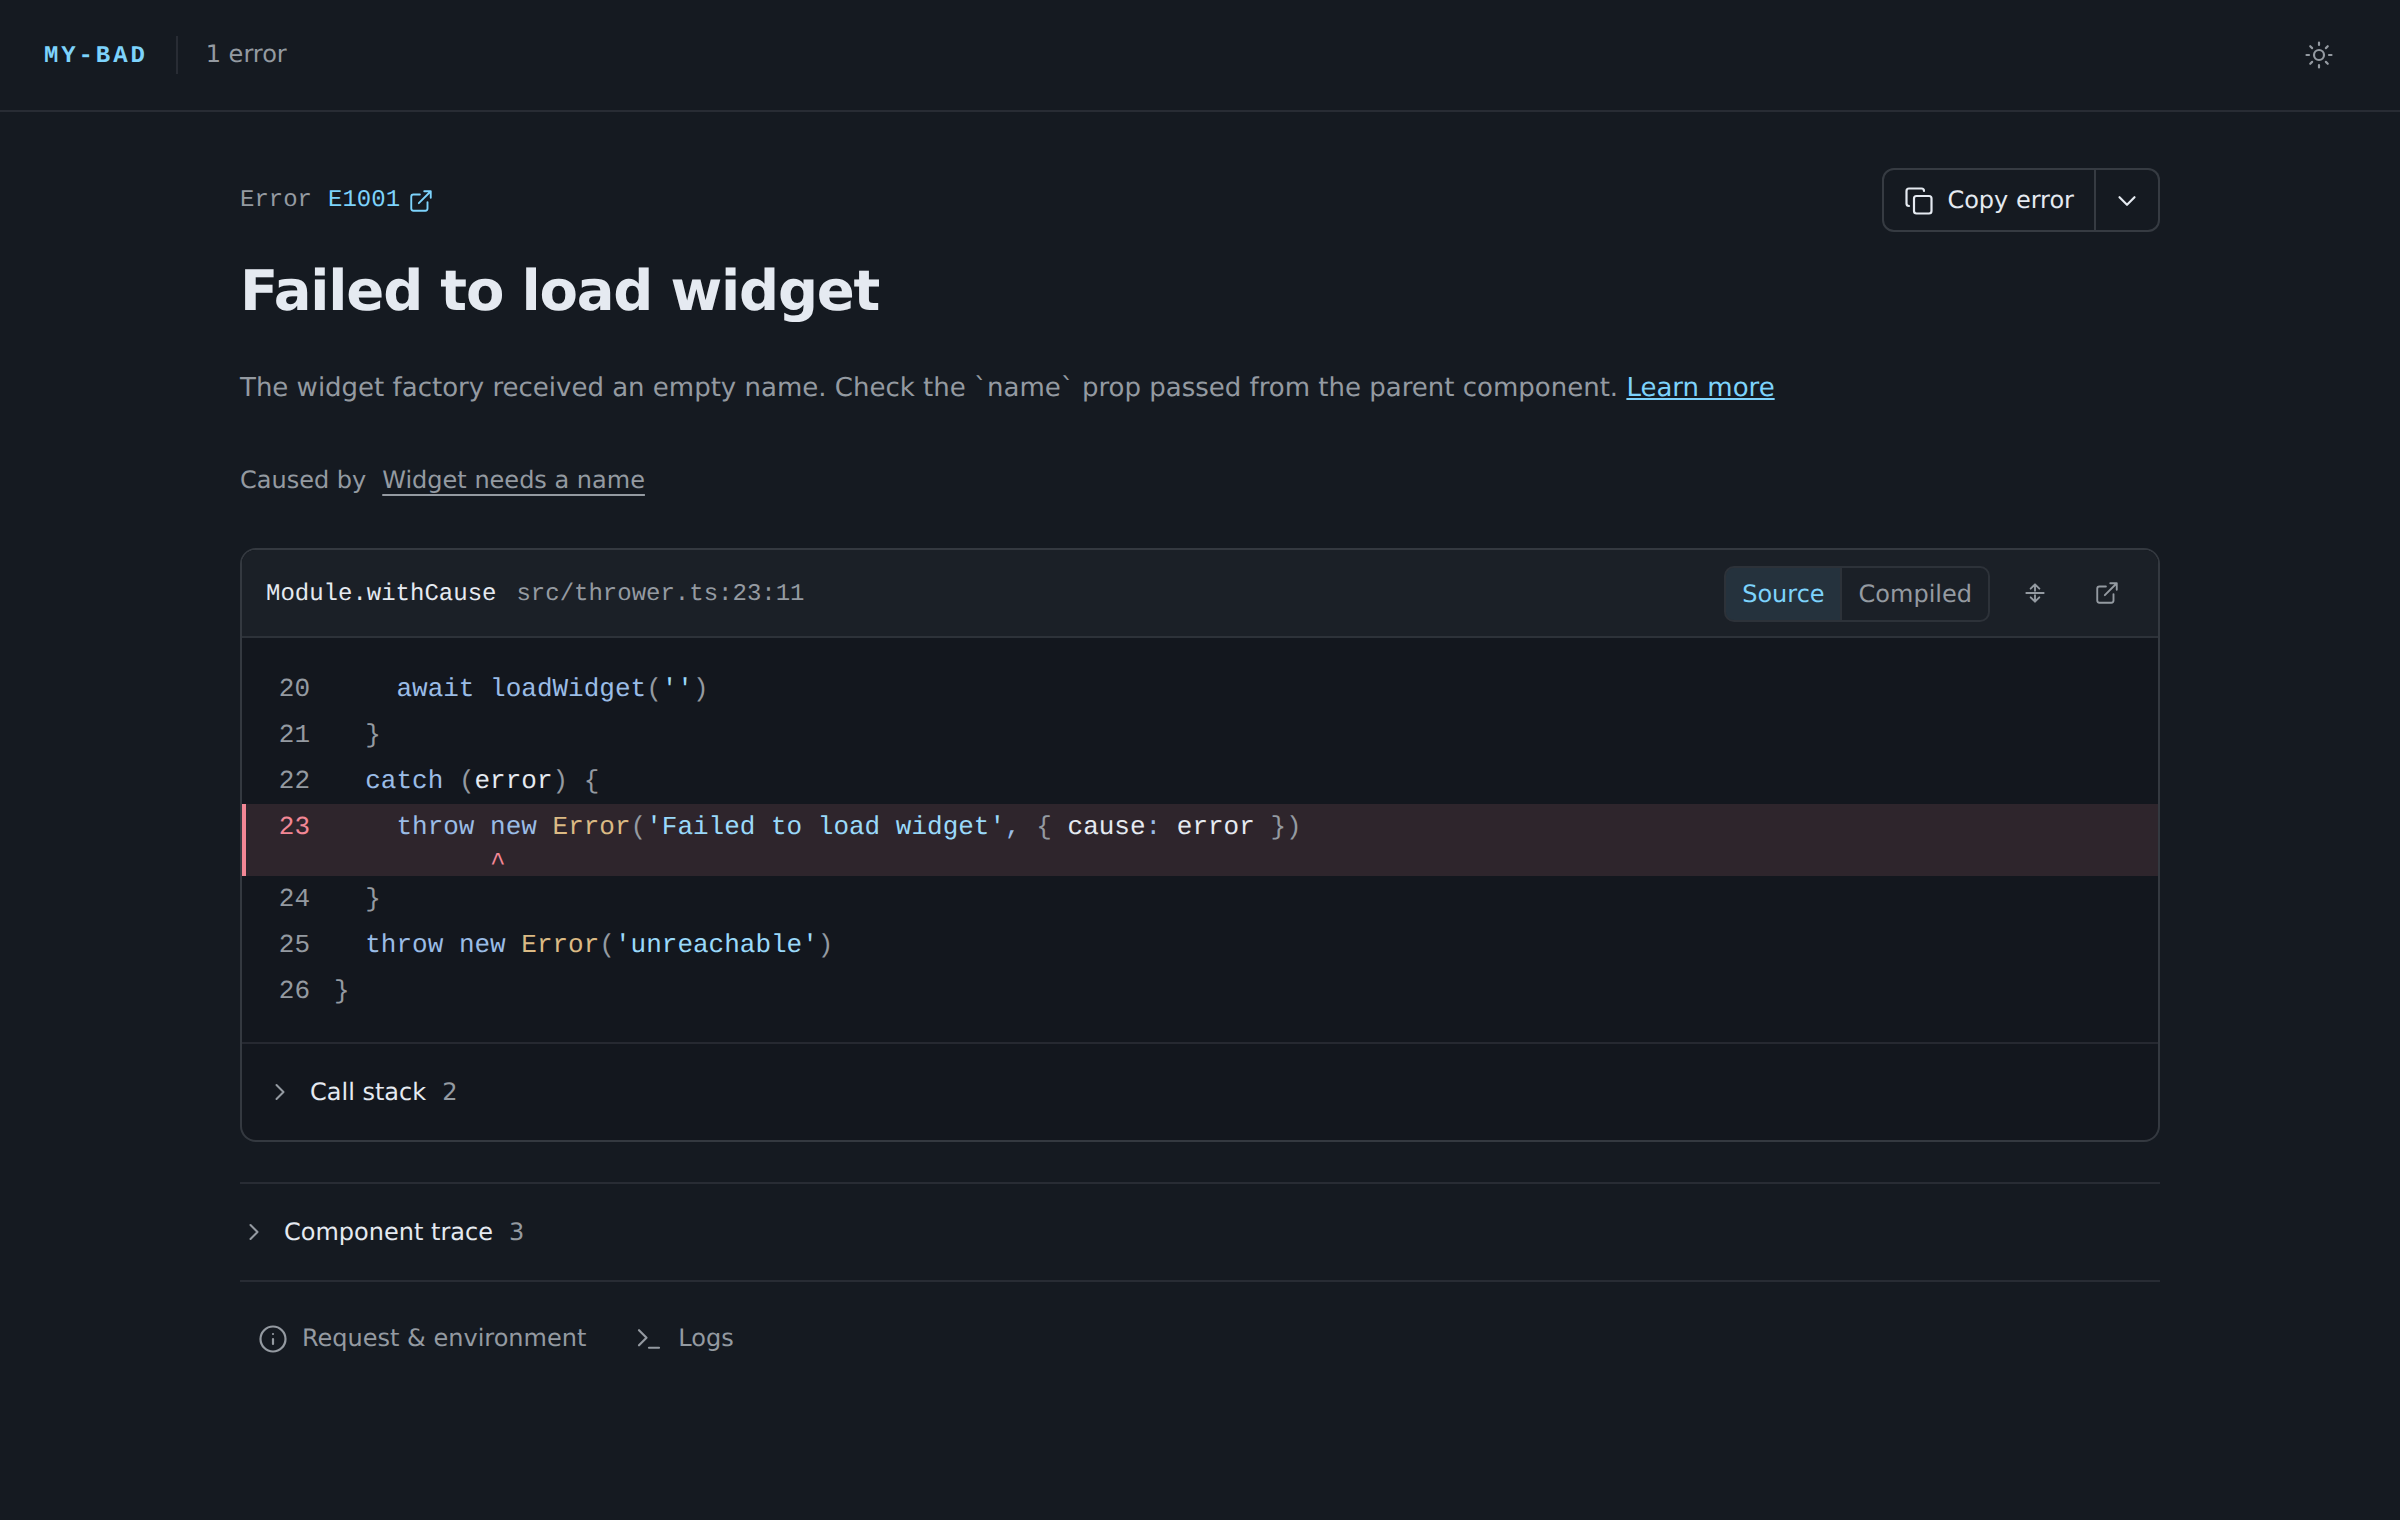
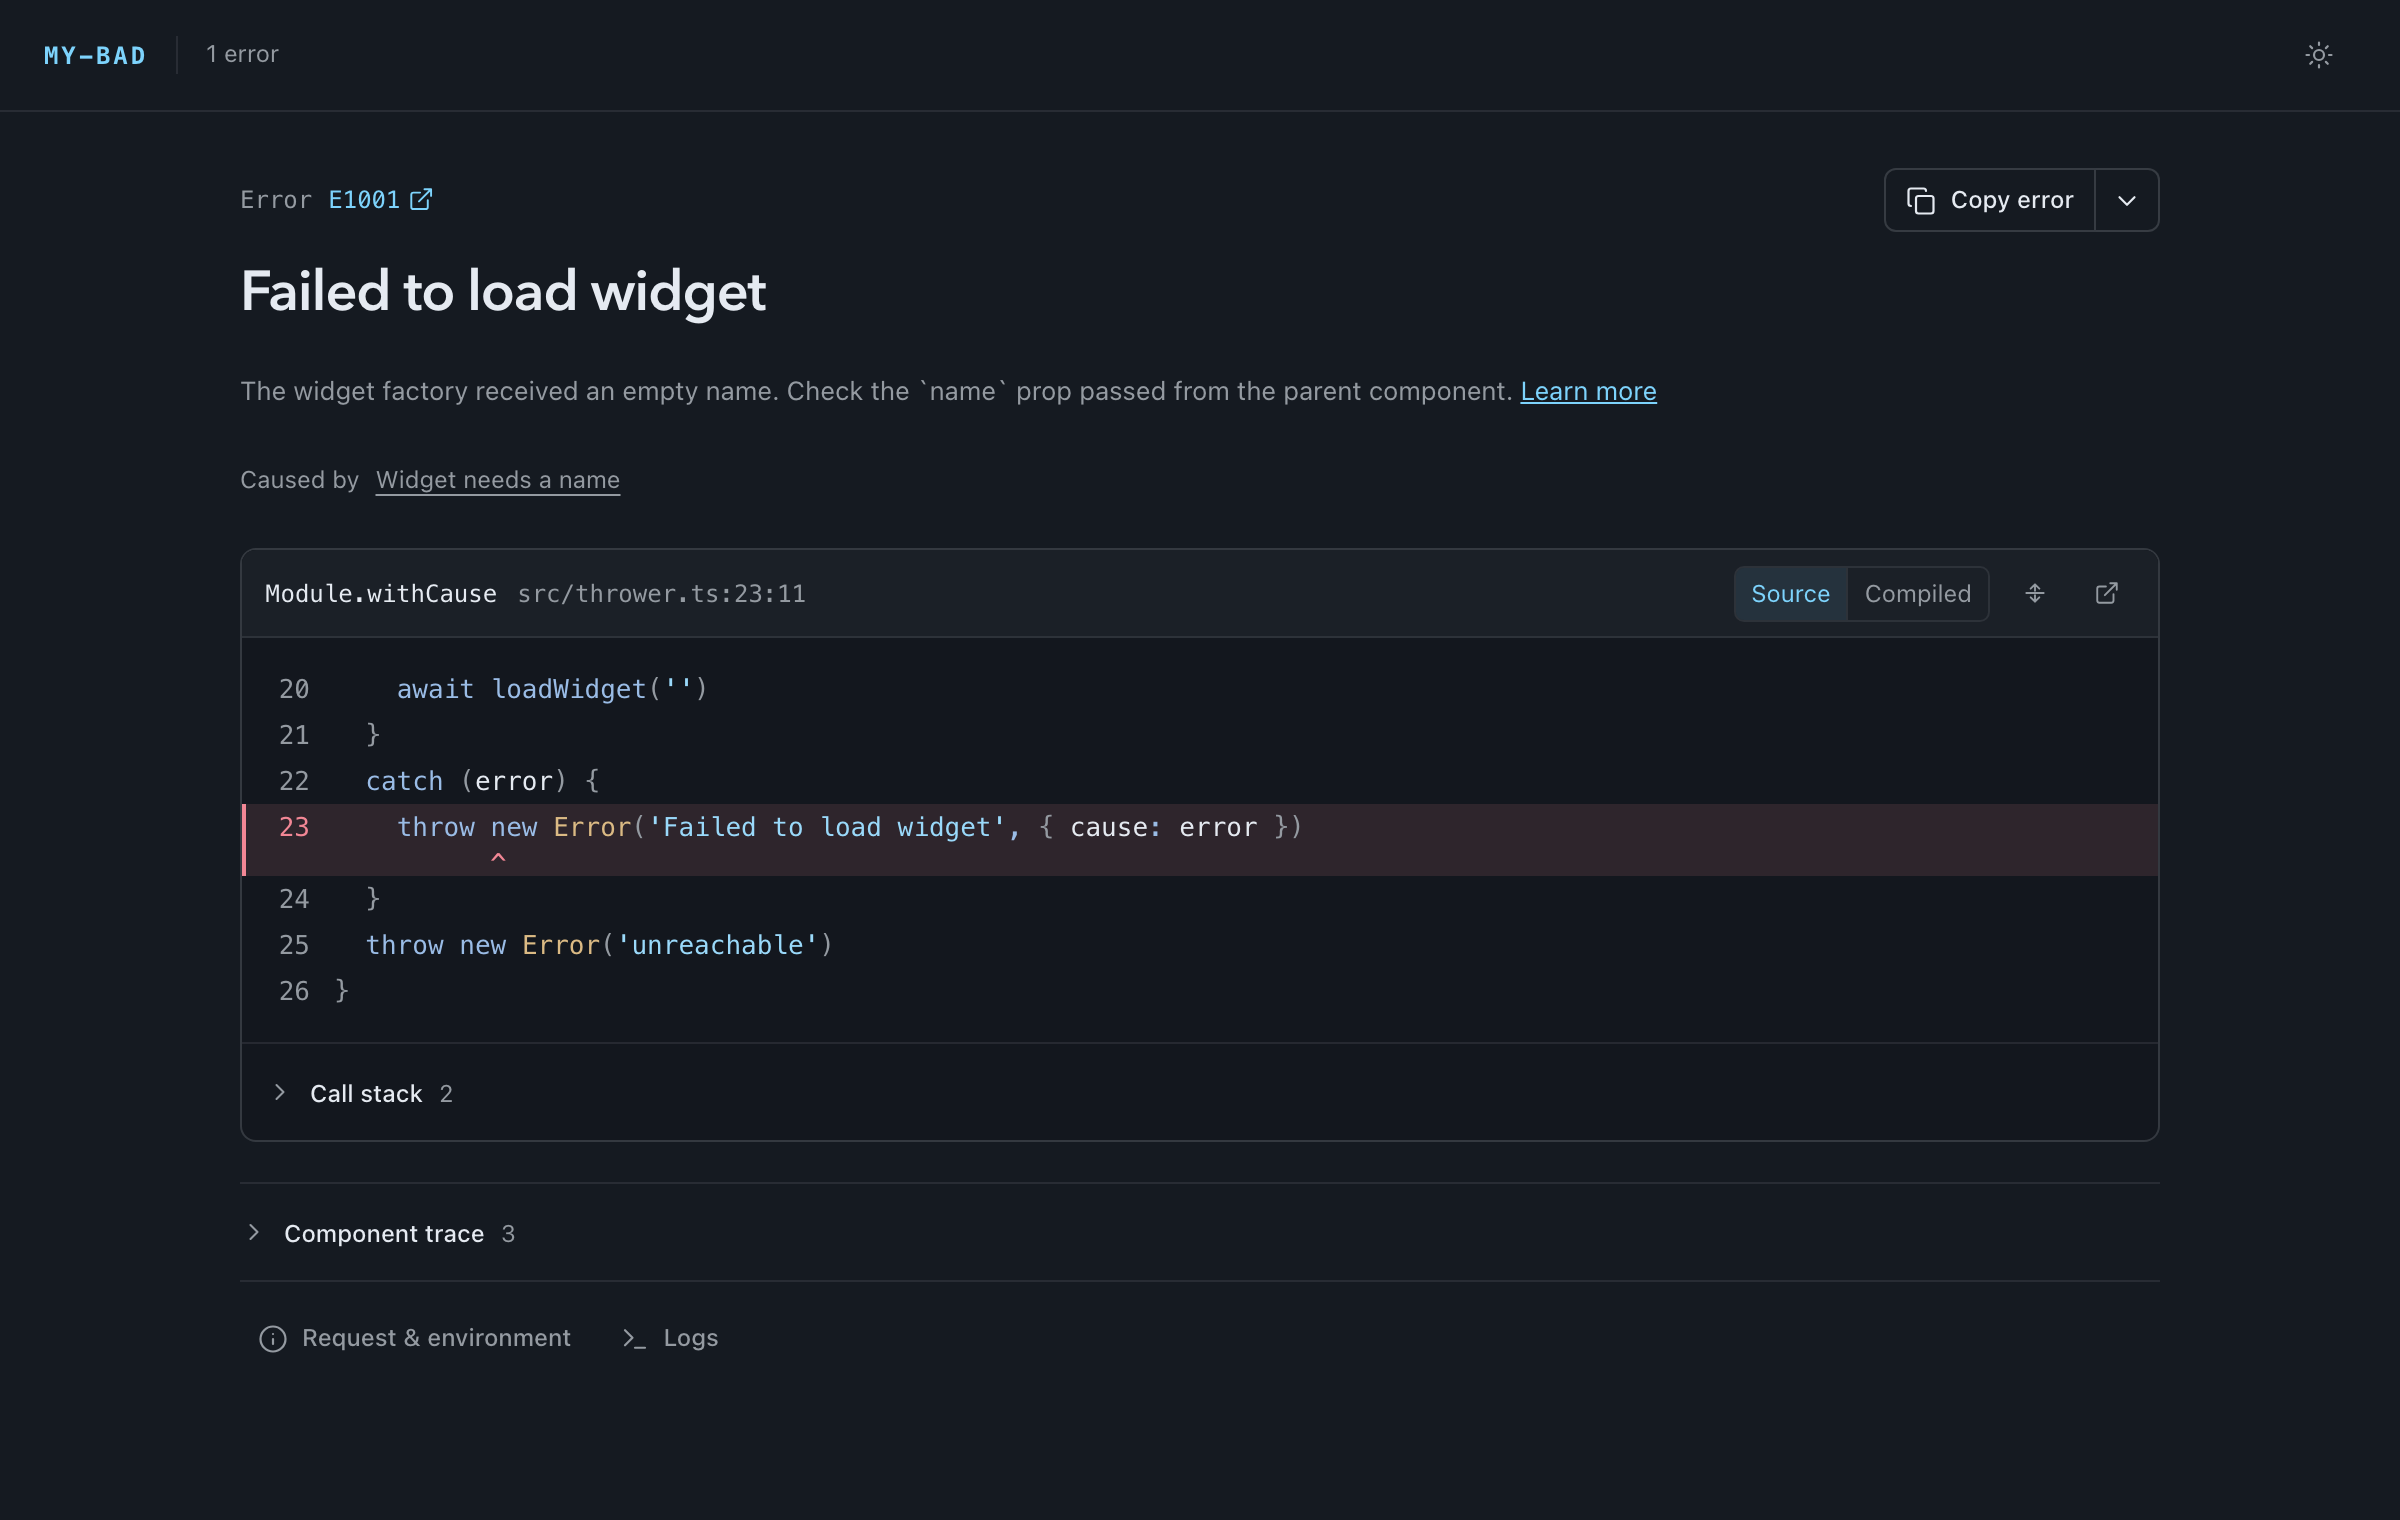
ci: run screenshot workflow on macos (#61)

diff --git a/playwright.config.ts b/playwright.config.ts
@@ -5,7 +5,7 @@ export default defineConfig({
   /**
    * README assets are one canonical file each, committed to the repo, so the
    * default per-platform snapshot suffix is dropped. They are rendered by CI on
-   * Linux; regenerating locally will produce font differences.
+   * macOS 15 with Chromium; other platforms will produce font differences.
    */
   snapshotPathTemplate: 'assets/{arg}{ext}',
   use: {
